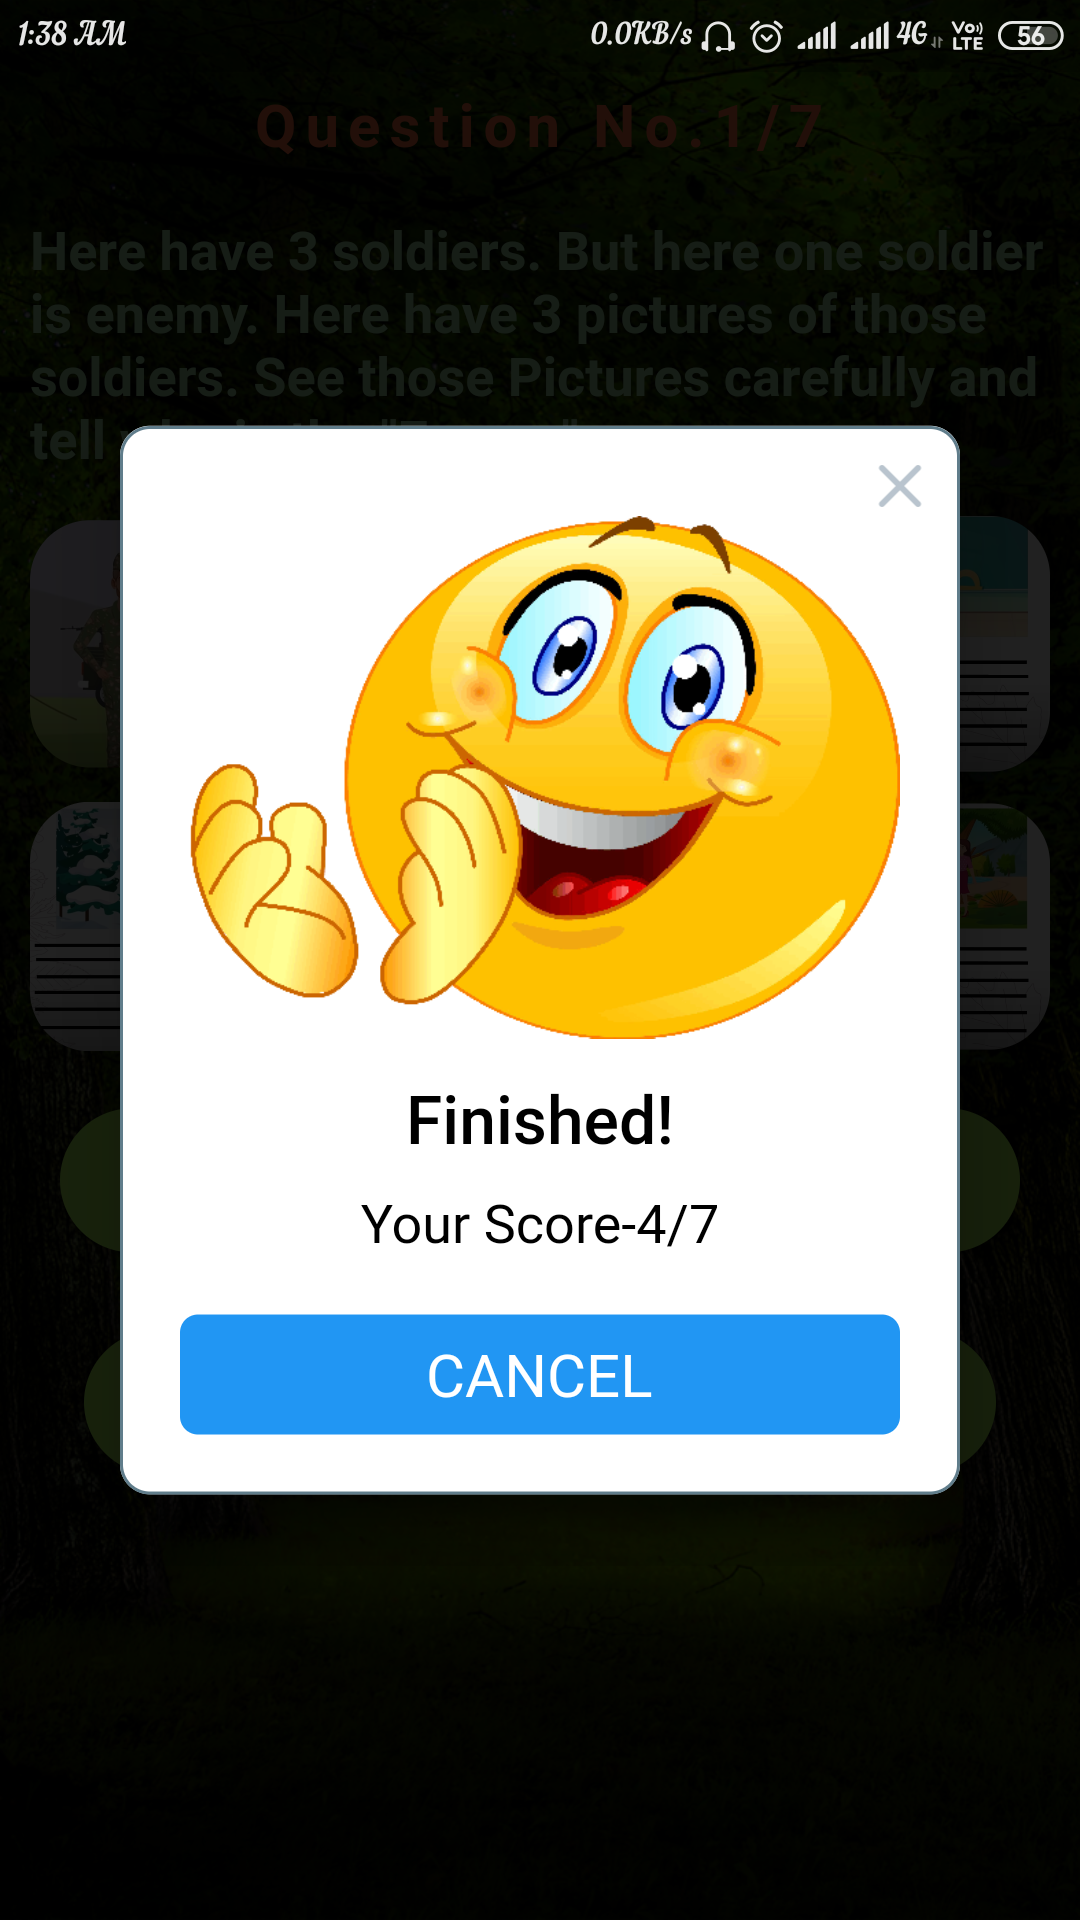
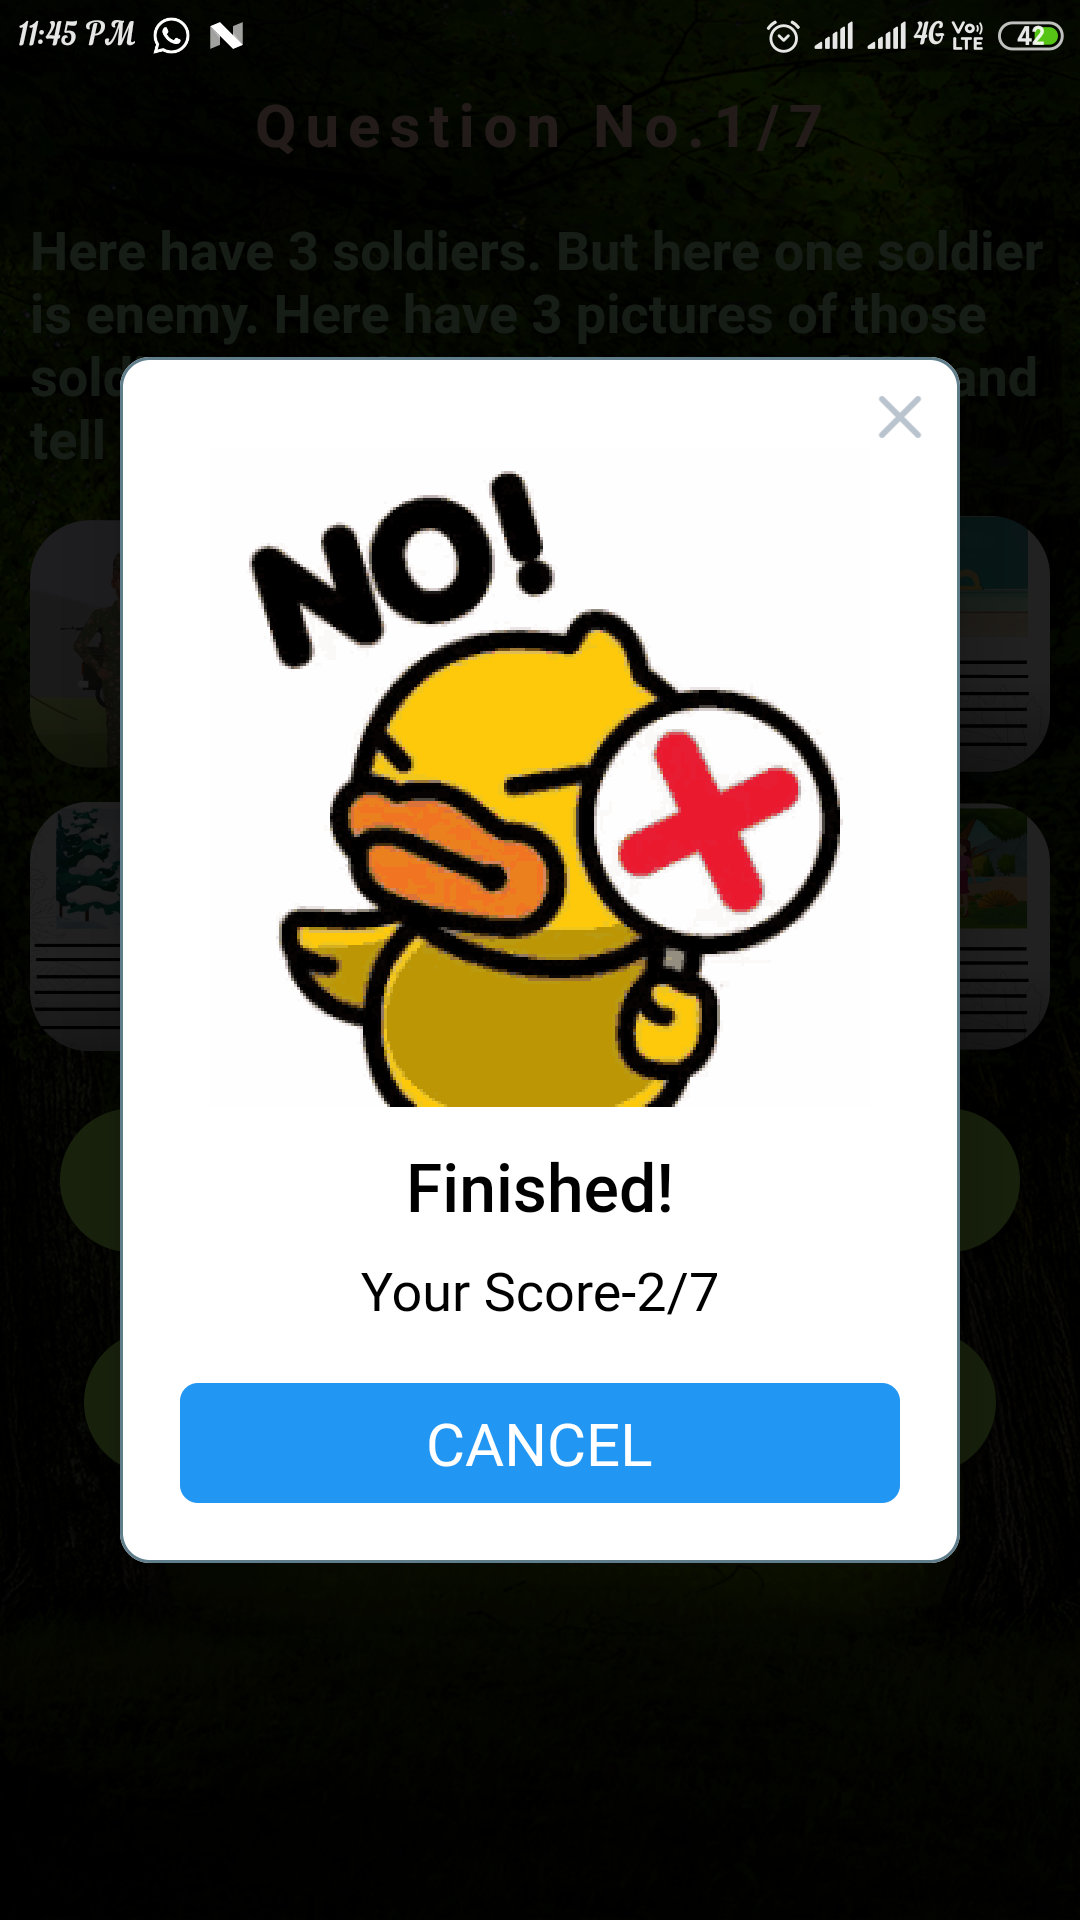
update 6.0.1

diff --git a/lib/riddle_Page.dart b/lib/riddle_Page.dart
@@ -58,6 +58,17 @@ class _RiddlePageState extends State<RiddlePage> {
     }
   }
 
+  // Image changer
+  Widget imageLogic() {
+    if (correctAnsCount <= 3) {
+      return Image(
+        image: AssetImage('assets/wrong.gif'),
+      );
+    } else {
+      return Image(image: AssetImage('assets/correct.gif'));
+    }
+  }
+
   // create ansQ method to generate the logic
   void ansQ(String userPickedAns) {
     String correctAns = getQuestionAnswer();
@@ -78,7 +89,7 @@ class _RiddlePageState extends State<RiddlePage> {
         answer(newAns);
         // 2nd create Alrt to tell the user that he reach the end of the question
         Alert(
-          image: Image.asset('assets/correct.gif'),
+          image: imageLogic(),
           context: context,
           title: 'Finished!',
           desc: 'Your Score-$correctAnsCount/7',

diff --git a/README.md b/README.md
@@ -11,7 +11,7 @@ Home Page
 <img height="400px" src="quiz3.png"><img height="400px" src="quiz4.png"><img height="400px" src="quiz5.png"> 
 Quiz Page
 
-<img height="400px" src="quiz6.png">
+<img height="400px" src="quiz6.png"><img height="400px" src="quiz7.png">
 End of the quiz
 
 This project is a starting point for a Flutter application.
